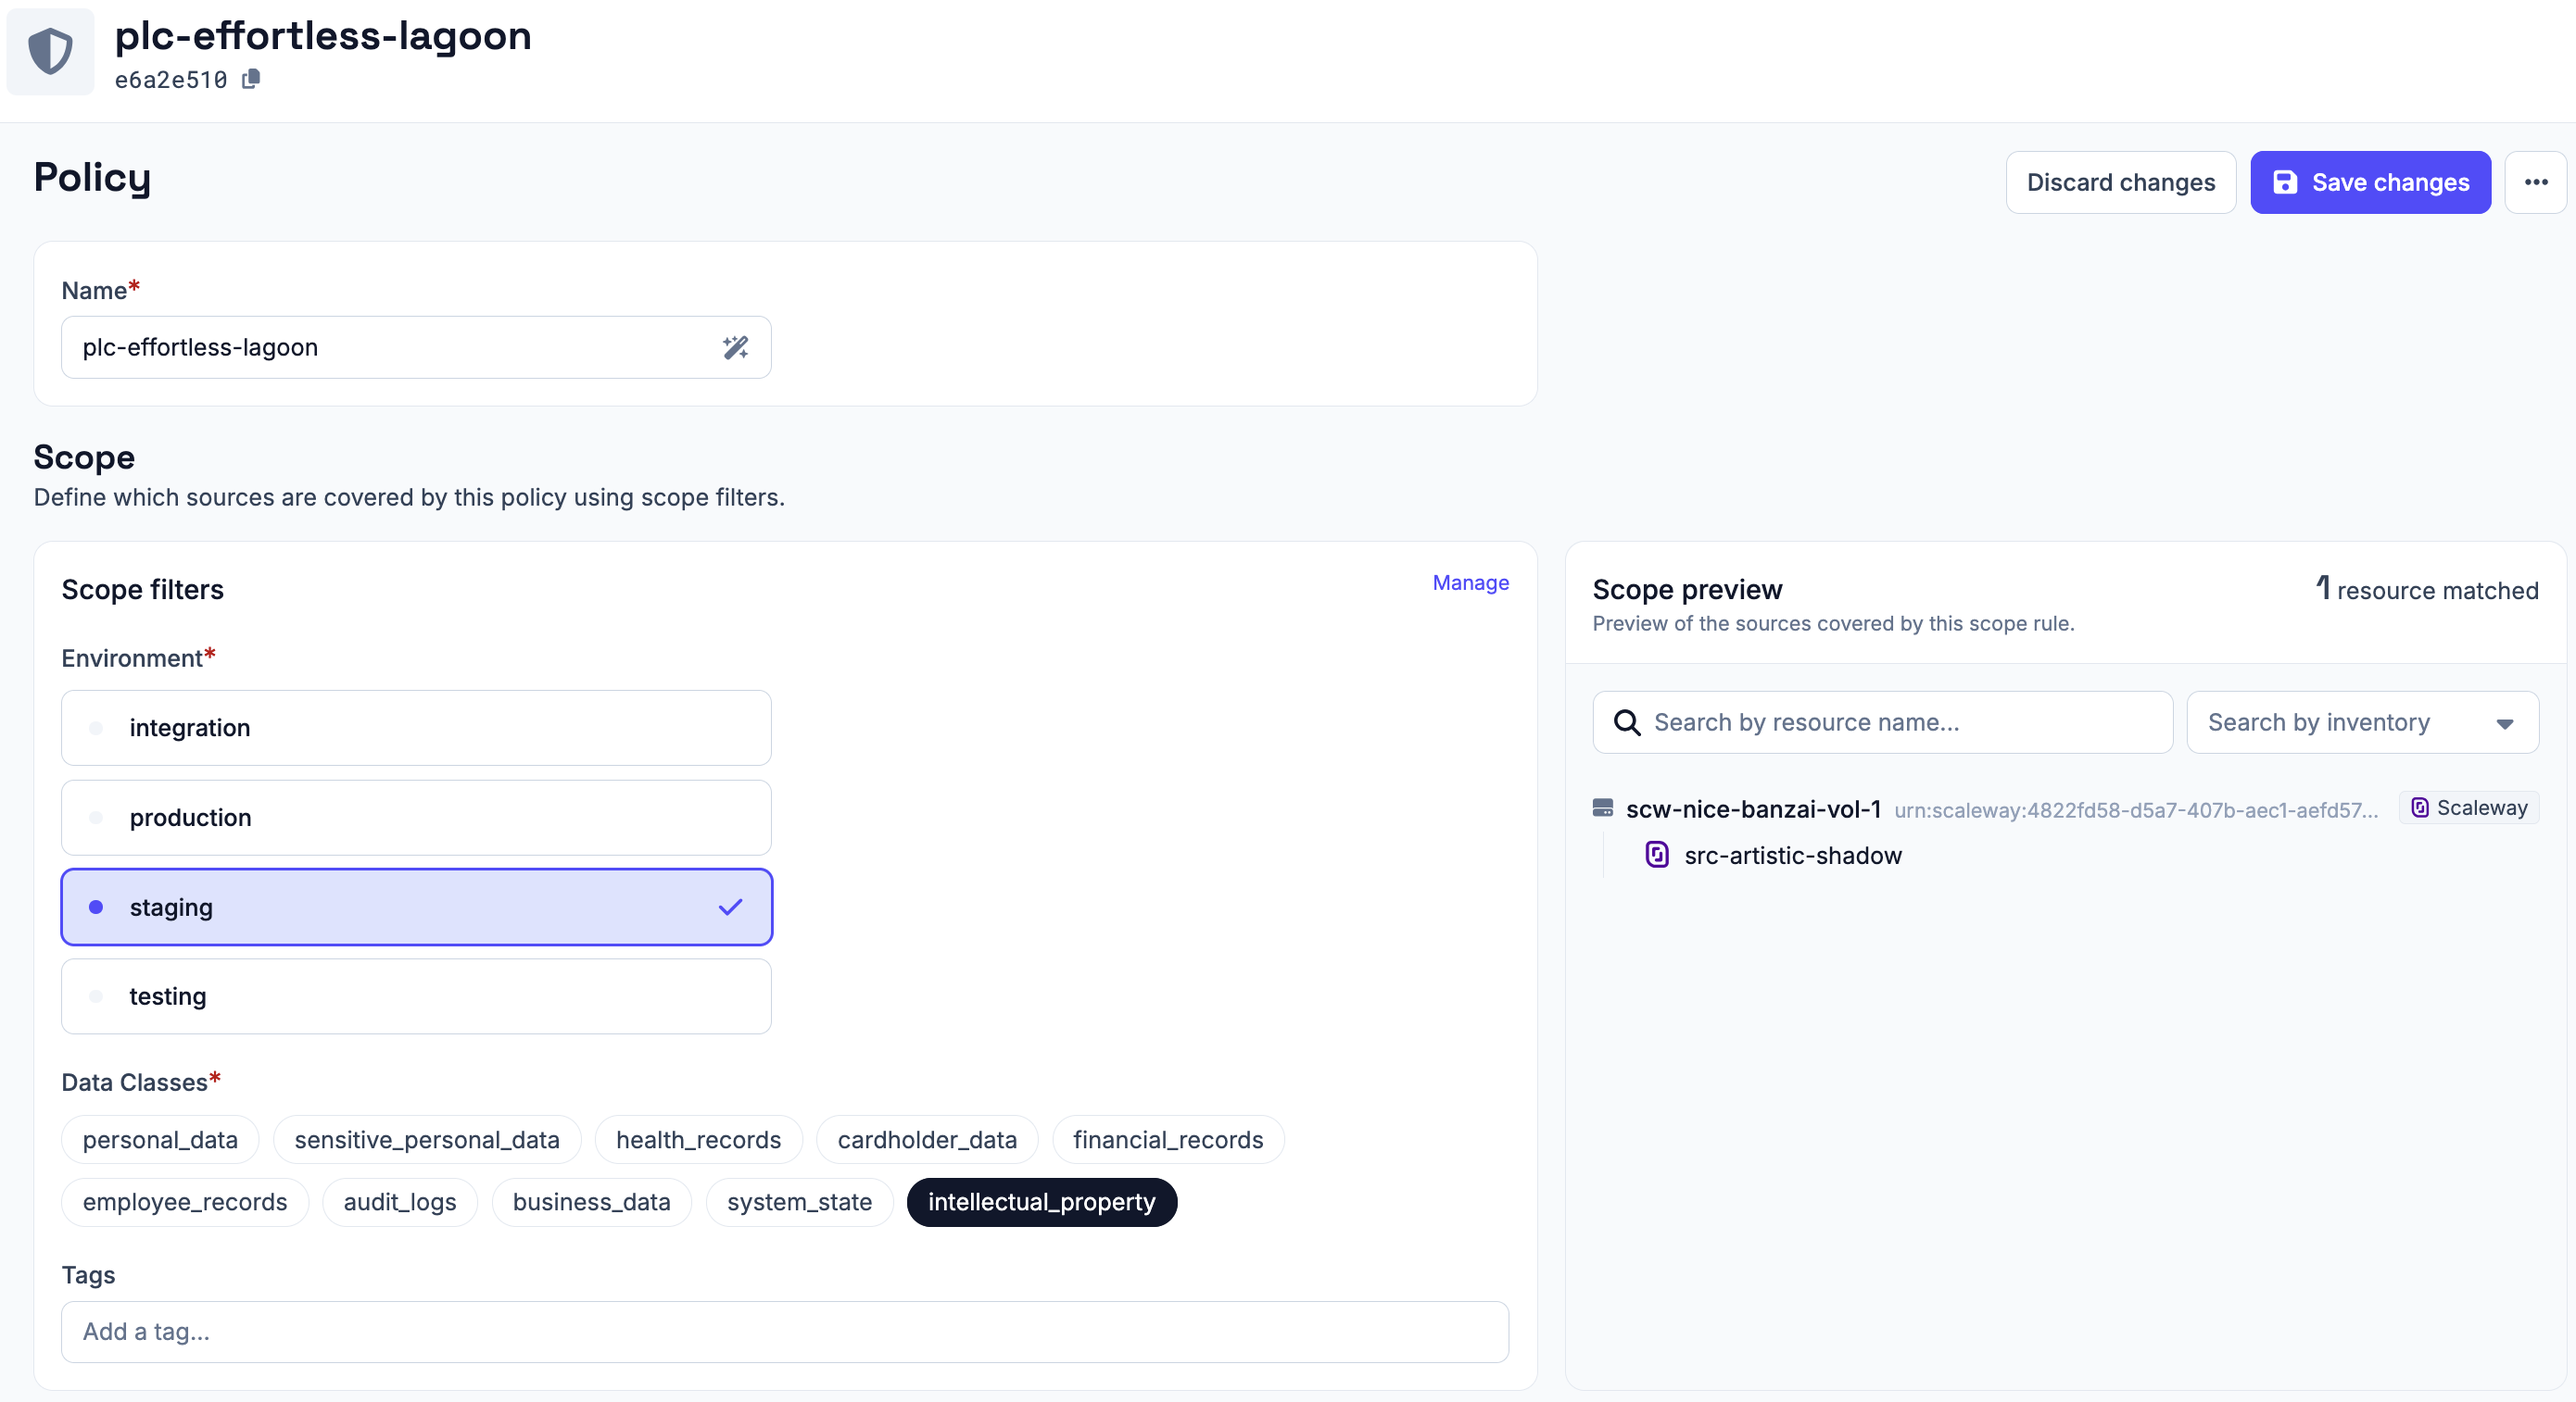
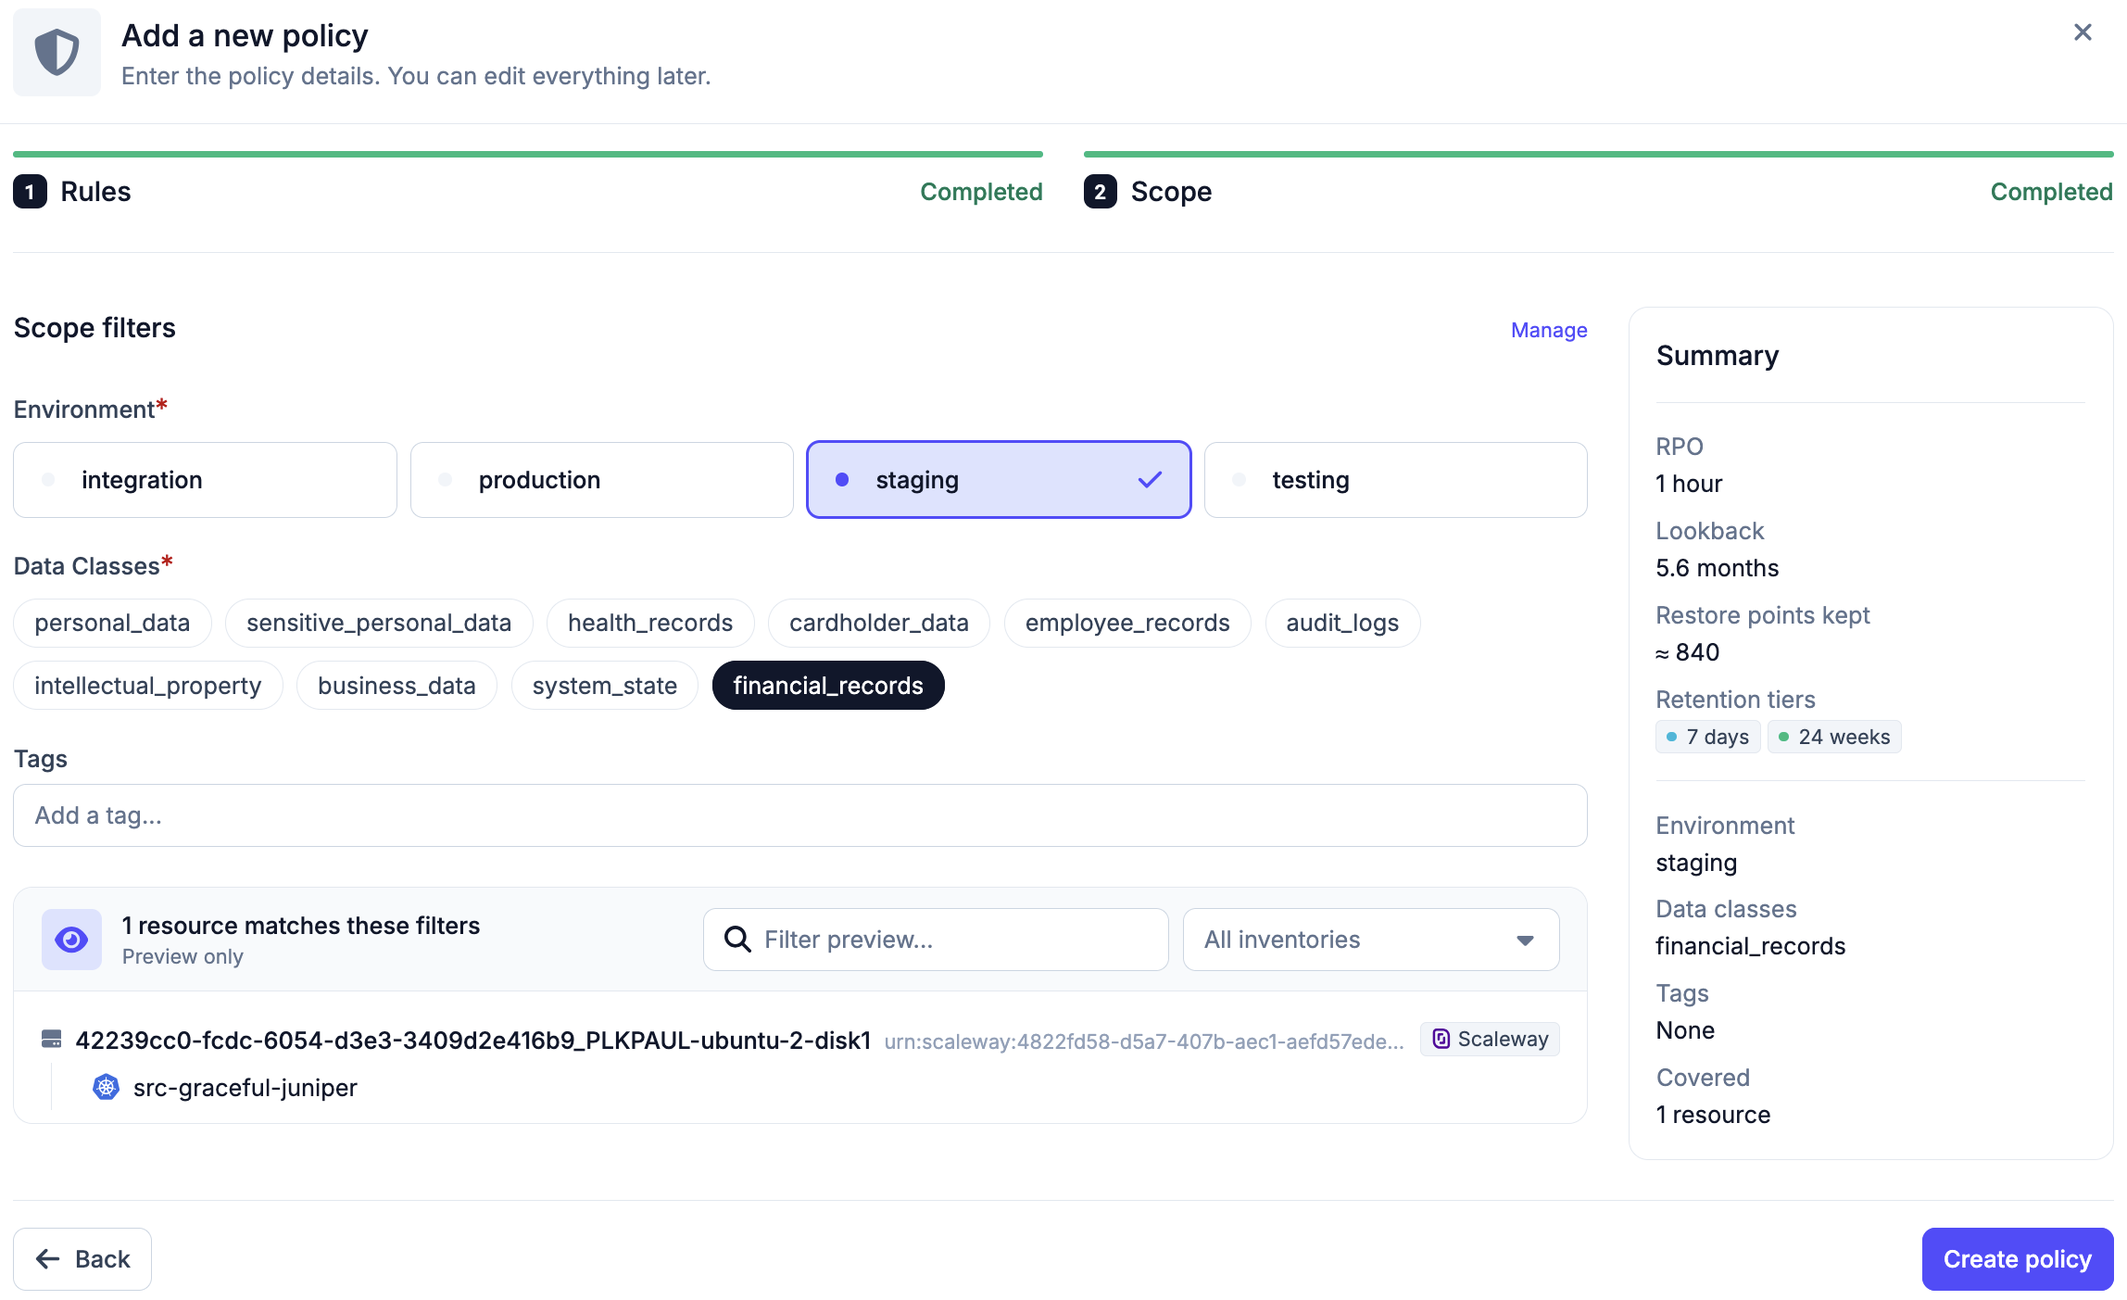
updating policies docs for pcp

diff --git a/content/docs/control-plane/compliance/policies.md b/content/docs/control-plane/compliance/policies.md
@@ -43,79 +43,81 @@ the [permissions](../../access-control/permissions) you hold there.
 
 ## Creating a policy
 
-To create a policy, provide a name, then define the backup requirements and
-select a store app to use for backups.
+A policy is created in two steps: its rules, then its scope. Nothing is
+scheduled until both are set and the policy is created.
 
-### Backup frequency and retention
+### Rules
 
-You define requirements across six time granularities. You can configure any
-combination of these:
+The rules of a policy define how often backups are taken, how long they are kept
+and where they are stored. They are set per retention tier:
 
 - Daily
 - Weekly
 - Monthly
 - Yearly
 
-For each granularity you enable, you configure:
+Any combination of tiers can be enabled. For each enabled tier, you configure:
 
-- **Frequency:** how often a backup should be taken within that period, for
-  example 4 times or once a day
-- **Retention:** how long backup restore points should be kept
+- **Backups:** how many backups are taken within the period of the tier, for
+  example 24 a day, which is one every hour.
+- **Keep for:** how long the restore points of the tier are kept, for example 7
+  days. The number of restore points this keeps is derived from both values.
+- **Stored on:** the [store](../../apps/stores) the backups of the tier are
+  written to. Each tier can use a different store.
 
-You then select a [store](../../apps/stores) where the backup will be stored and
-toggle whether you want to run a [check task](../../scheduling/tasks#check-task)
-on the after each. It's recommended to leave this on.
+**Check integrity** runs a [check task](../../scheduling/tasks#check-task) after
+each backup to verify it. It's recommended to leave this on.
 
-![](../images/create-policy.png)
+![](../images/creating-a-policy.png)
 
-### Policy summary
+### Scope
 
-Before creating the policy, Plakar Control Plane shows you a summary of the
-policy contract based on your selections.
+The scope of a policy selects the source apps it applies to:
 
-The summary shows the RPO and lookback derived from your settings. RPO is the
-maximum data loss window based on your most frequent backup, and lookback is how
-far back you can restore from based on your retention settings.
+- **Environment:** required. The environment the policy applies to.
+- **Data Classes:** required. One or more data classes the policy applies to.
+- **Tags:** optional. Narrows the matched sources down further to only those
+  carrying the specified tags. Useful when environment and data class alone
+  would match more sources than intended.
 
-## Scoping a policy
+Environments and data classes are managed from the organization's
+[classification settings](#managing-environments--data-classes).
 
-After creating a policy, you are immediately taken to the scoping page to set up
-the environment and data class filters.
+While the scope is being set, a preview lists the resources and source apps that
+match it, so the coverage of the policy can be checked before it is created. The
+preview can be filtered by inventory.
 
-Supported scope filters include:
-
-- **Environment:** the environment the policy applies to. Environments are
-  managed from the organization's
-  [classification settings](#managing-environments--data-classes).
-- **Data Class:** one or more data classes the policy applies to. Data classes
-  are managed from the organization's
-  [classification settings](#managing-environments--data-classes).
-- **Tag:** narrows the matched sources down further to only those carrying the
-  specified tag. Useful when environment and data class alone would match more
-  sources than intended.
-
-Plakar Control Plane matches all source apps against the configured scope. Any
-source app whose environment and data class match the policy is automatically
-scheduled according to the policy rules. When a new source app is added with
-matching values, it is automatically picked up by the policy without any
-additional configuration.
+Any source app whose environment and data class match the policy is
+automatically scheduled according to its rules. When a new source app is added
+with matching values, it is picked up by the policy without any additional
+configuration.
 
 Scope is not the only condition. A policy also respects
 [data residency](./residency): a matched source is only scheduled when it and
-the policy's store share the same residency.
+the store it is backed up to share the same residency.
 
 A source app can be covered by multiple policies if their scopes overlap. This
-allows policies to be layered for example, a general policy covering all
+allows policies to be layered, for example a general policy covering all
 production sources and a stricter policy specifically covering production
 databases.
 
 ![](../images/scoping-a-policy.png)
 
+### Summary
+
+While the policy is being created, a summary shows the contract it defines:
+
+- **RPO:** the maximum data loss window, based on the most frequent backup.
+- **Lookback:** how far back data can be restored, based on the longest
+  retention.
+- **Restore points kept:** the approximate number of restore points the policy
+  keeps across its tiers.
+- **Covered:** the number of resources the scope matches.
+
 ## Scheduling
 
-Once a policy is scoped, the policy scheduler automatically creates backup
-schedules for all matching sources using the store app selected when the policy
-was created. See the
+Once a policy is created, the policy scheduler automatically creates backup
+schedules for all matching sources, using the store of each tier. See the
 [policy scheduler documentation](../../scheduling/policy-scheduler) for more
 details.
 
@@ -130,4 +132,4 @@ available to a policy are the ones defined in the organization that policy lives
 in. See [Managing Organizations](../../access-control/organizations) for more
 information about how organizations isolate configuration.
 
-![Creating and deleting environments and data classes](../images/managing-classification.png)
+![Creating and deleting environments and data classes](../images/managing-classifications.png)
